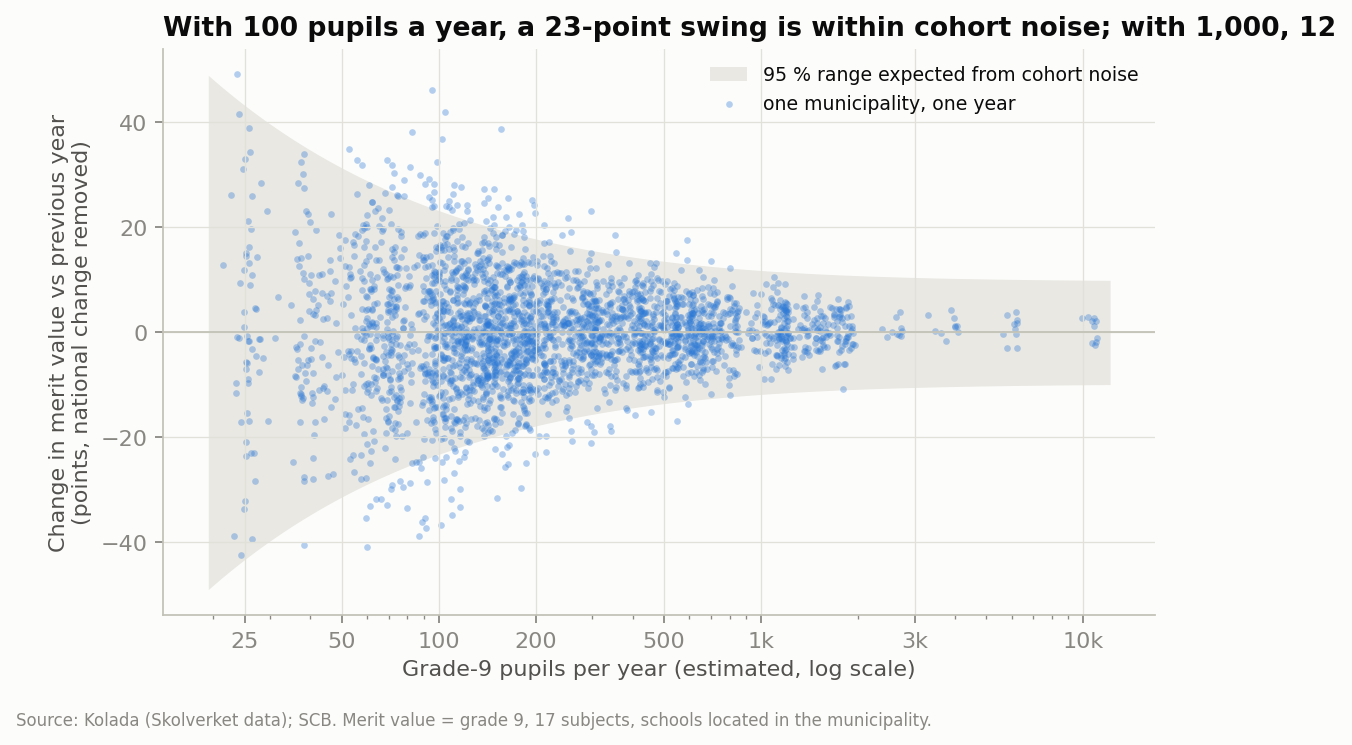
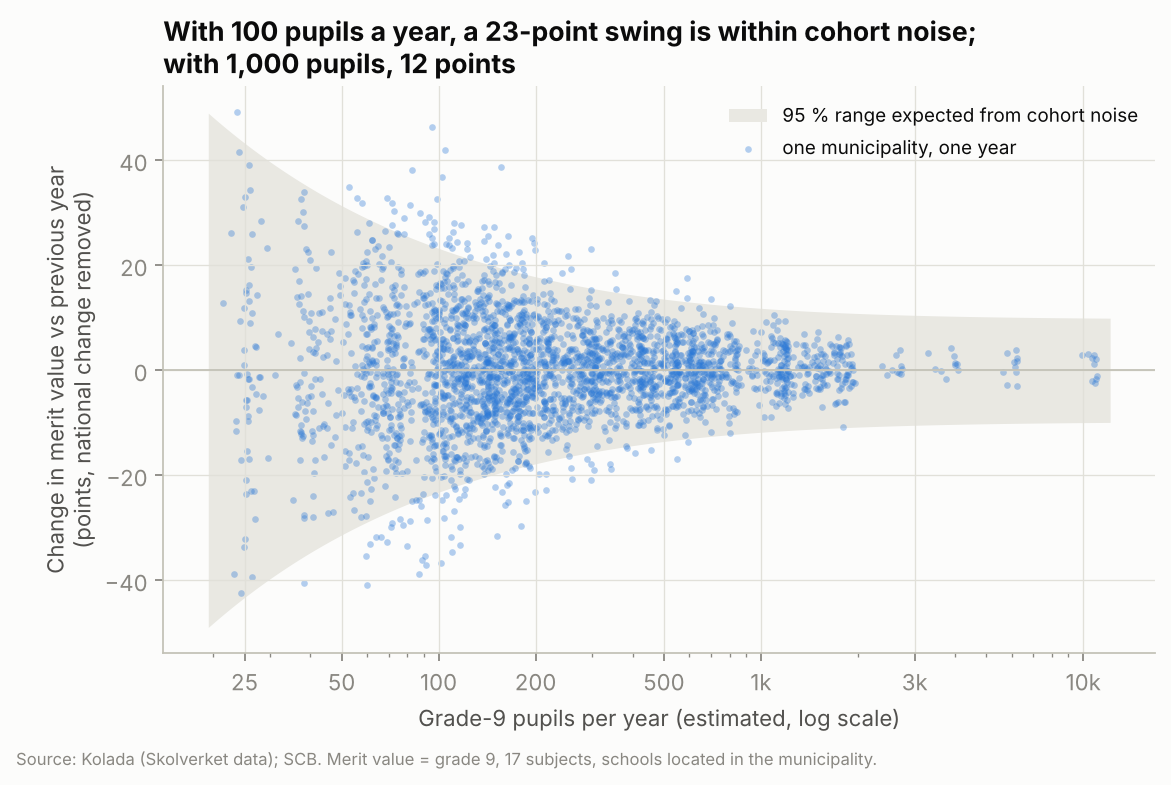
Fix cut-off figure title, name reference municipalities, add captions
- changes_vs_size: long titles wrap instead of running off the figure
- persistent_effects: Stockholm, Huddinge and the highest and lowest
  municipality are named; "interval includes 0" reworded
- README: plain-language intro and "How to read it" captions

Claude-Session: https://claude.ai/code/session_01CsgMCppWsBDFEeRSiFs1nU

diff --git a/src/figures.py b/src/figures.py
@@ -7,6 +7,8 @@ Titles state the conclusion; source lines name Kolada / SCB.
 
 from __future__ import annotations
 
+import textwrap
+
 import matplotlib
 
 matplotlib.use("Agg")
@@ -58,7 +60,9 @@ def changes_vs_size(ch, a, b, path, title, z=1.959964):
     ax.set_xticklabels(["25", "50", "100", "200", "500", "1k", "3k", "10k"])
     ax.set_xlabel("Grade-9 pupils per year (estimated, log scale)")
     ax.set_ylabel("Change in merit value vs previous year\n(points, national change removed)")
-    ax.set_title(title)
+    if len(title) > 70 and "; " in title:  # long titles were cut off at the figure edge
+        title = title.replace("; ", ";\n", 1)
+    ax.set_title("\n".join(textwrap.fill(t, 72) for t in title.split("\n")))
     ax.legend(frameon=False, loc="upper right", fontsize=8.5)
     _finish(fig, path)
 
@@ -133,8 +137,15 @@ def actual_vs_expected(d, year, path, title, highlight_county="01"):
     _finish(fig, path)
 
 
-def caterpillar(eff, path, title):
-    """Every municipality's persistent effect with its 95 % interval, sorted."""
+LABELLED = ("0180", "0126")  # Stockholm and Huddinge: always named in the caterpillar plot
+
+
+def caterpillar(eff, path, title, labelled=LABELLED, extremes=1):
+    """Every municipality's persistent effect with its 95 % interval, sorted.
+
+    Names the municipalities in ``labelled`` plus the ``extremes`` highest and lowest,
+    so a reader can find a few reference points among the 290 bars.
+    """
     style()
     e = eff.sort_values("eb_mean").reset_index(drop=True)
     colors = np.where(e["verdict"] == "above", DIV_POS, np.where(e["verdict"] == "below", DIV_NEG, "#b5b4ad"))
@@ -148,8 +159,26 @@ def caterpillar(eff, path, title):
             ha="right", va="top", fontsize=9)
     ax.text(2, float(e["lo95"].min()), f"{n_below} clearly below expected", color=DIV_NEG, ha="left",
             va="bottom", fontsize=9)
-    ax.text(len(e) / 2, float(e["hi95"].max()), f"{len(e) - n_above - n_below} interval includes 0",
+    ax.text(len(e) / 2, float(e["hi95"].max()),
+            f"{len(e) - n_above - n_below} cannot be told apart from expected",
             color=INK2, ha="center", va="top", fontsize=9)
+    picks = set(e.index[:extremes]) | set(e.index[-extremes:])
+    if "municipality" in e and "name" in e:
+        picks |= set(e.index[e["municipality"].astype(str).str.zfill(4).isin(labelled)])
+        # Labels go under the bar for municipalities above expected and over it for those
+        # below; neighbours get staggered offsets so the names do not overlap.
+        steps = {True: 0, False: 0}
+        for i in sorted(picks, reverse=True):
+            above = bool(e.at[i, "eb_mean"] >= 0)
+            y = e.at[i, "lo95"] if above else e.at[i, "hi95"]
+            off = 12 + 15 * (steps[above] % 3)
+            steps[above] += 1
+            ax.annotate(e.at[i, "name"], xy=(i, y), xytext=(0, -off if above else off),
+                        textcoords="offset points", ha="right", va="top" if above else "bottom",
+                        fontsize=7.5, color=INK,
+                        bbox={"boxstyle": "round,pad=0.15", "fc": SURFACE, "ec": "none", "alpha": 0.9},
+                        arrowprops={"arrowstyle": "-", "color": MUTED, "lw": 0.6,
+                                    "shrinkA": 0, "shrinkB": 1})
     ax.set_xticks([])
     ax.set_xlabel("290 municipalities, sorted by estimated persistent effect")
     ax.set_ylabel("Persistent difference from expected\nmerit value (points, 95 % interval)")

diff --git a/scripts/run_pipeline.py b/scripts/run_pipeline.py
@@ -420,7 +420,7 @@ def stage_descriptives() -> None:
     figures.changes_vs_size(
         descriptives.demeaned_changes(p), a, b, config.FIGURES / "changes_vs_size.png",
         title=f"With 100 pupils a year, a {bands['100']:.0f}-point swing is within cohort noise; "
-              f"with 1,000, {bands['1000']:.0f}")
+              f"with 1,000 pupils, {bands['1000']:.0f} points")
     figures.funnel_plot(descriptives.funnel(p, "merit", s["funnel_year"], s["noise_model"]["point"]["pupil_sd"]),
                         s["funnel_year"], config.FIGURES / f"funnel_{s['funnel_year']}.png")
     try:

diff --git a/README.md b/README.md
@@ -2,7 +2,11 @@
 
 Every year Sweden's 290 municipalities are ranked on how their grade-9 pupils do, and education committees react when their municipality moves. This project separates what is persistent from what is noise: about half of the municipalities really do differ from what their pupils' background predicts, but a single year's result — and especially a single year's *change* — is mostly noise, above all in small municipalities.
 
+**In plain words:** newspapers rank Sweden's municipalities on grade-9 results every year. After taking into account how educated the pupils' parents are, about half of the municipalities really do better or worse than expected year after year. But a single year's ranking, and above all a single year's rise or fall, is mostly chance, especially in small municipalities where one class decides the result.
+
 ![Persistent difference from expected merit value for all 290 municipalities, with 95 % intervals](reports/figures/persistent_effects.png)
+
+*How to read it: each vertical line is one municipality, sorted from furthest below to furthest above what its pupils' background predicts. The dot is the best estimate of its lasting difference, the line the 95 % uncertainty range. Blue and red lines lie entirely above or below zero; grey lines cross zero, so those municipalities cannot be told apart from expected.*
 
 ## Business question
 Education committees (utbildningsnämnder) and school directors see their municipality ranked on grade-9 results every year (SKR *Öppna jämförelser*, Skolverket SALSA, local press). **Which municipalities do consistently better or worse than their pupils' background predicts, and how large must a one-year change be before it is more than noise?**
@@ -19,6 +23,8 @@ All figures are real data, 290 municipalities × spring terms 2015–2025 (3,190
 7. **Robust to the analysis choices:** across eight specifications, 132–156 municipalities differ persistently, and the effects correlate 0.82–1.00 with the primary estimate.
 
 ![One-year change in merit value against municipality size, with the 95 % band expected from cohort noise](reports/figures/changes_vs_size.png)
+
+*How to read it: each dot is one municipality in one year; up means its result improved from the year before. The grey band is how much results jump by chance alone, given how many pupils finish grade 9. Small municipalities (left) jump far more than large ones (right). The band is the fitted noise model; the table below uses the observed changes in each size group, so its numbers differ slightly (±22 for 100–199 pupils, 23 points at exactly 100).*
 
 ## Recommendation
 For an education committee reading this year's ranking:
